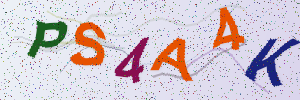
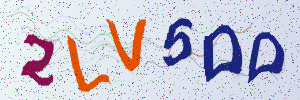
docs: add sample image and example output text to README

diff --git a/README.md b/README.md
@@ -9,7 +9,8 @@
 <div align="center">
   <br />
   <img src="public/sample.png" alt="PrimeCaptcha Sample Image" />
-  <br /><br />
+  <p><em>Example Output Text: <strong>2LV5DD</strong></em></p>
+  <br />
 </div>
 
 ---
